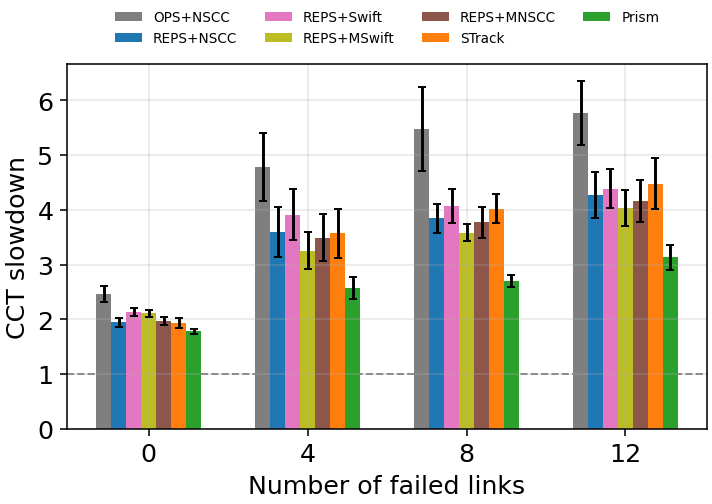
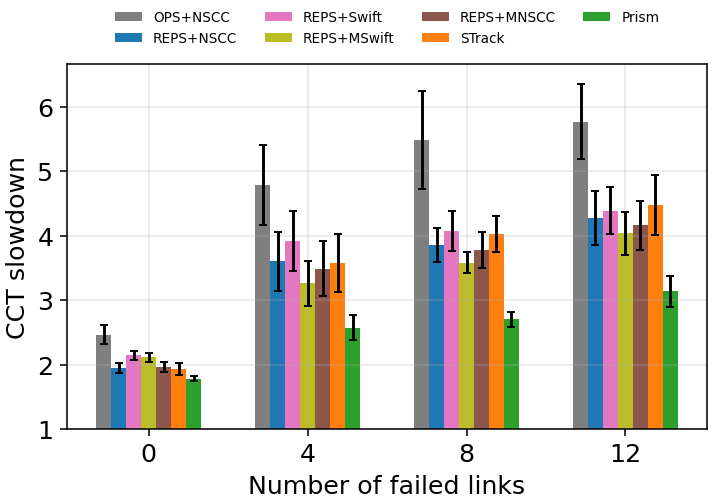
prism_eval: figF1 y-axis starts at 1.0 (slowdown floor = ideal)

diff --git a/htsim/sim/datacenter/prism_eval/common/cct_figs.py b/htsim/sim/datacenter/prism_eval/common/cct_figs.py
@@ -55,7 +55,7 @@ def render_cct_bars(data_dir, figs_dir, tag_prefix, baselines, failed, seeds, fi
         offs  = [xi - group_w / 2 + bw * (j + 0.5) for xi in x]
         ax.bar(offs, means, bw, yerr=sems, capsize=2,
                color=plot_style.COLORS.get(ck), label=disp)
-    ax.axhline(1.0, color="gray", ls="--", lw=1.0, zorder=0)   # slowdown 1.0 = zero-queue ideal
+    ax.set_ylim(bottom=1.0)                                     # slowdown >= 1 (1.0 = zero-queue ideal)
     ax.set_xticks(x); ax.set_xticklabels([str(f) for f in failed])
     ax.set_xlabel("Number of failed links"); ax.set_ylabel("CCT slowdown")
     ax.grid(axis="y", alpha=0.3)
